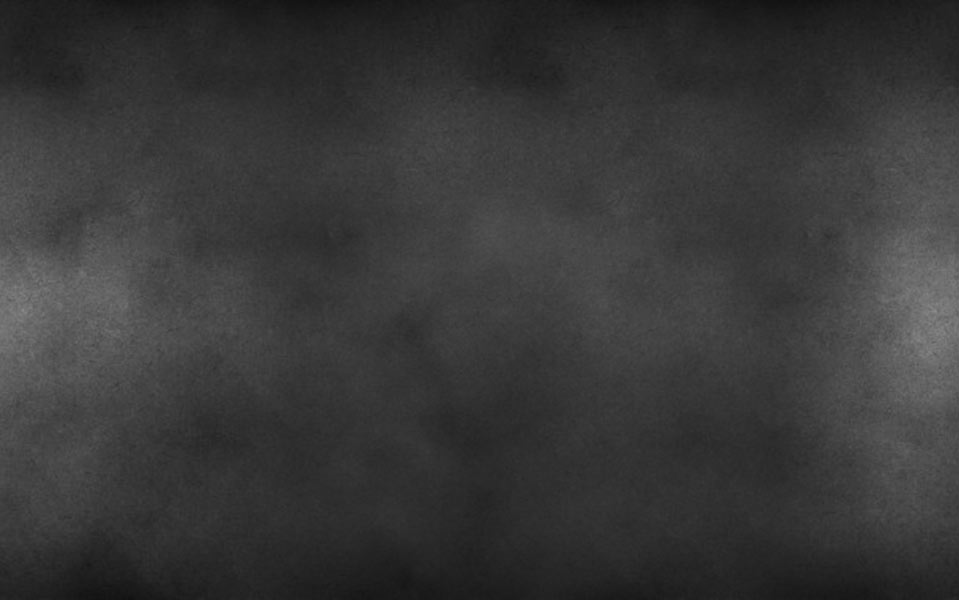
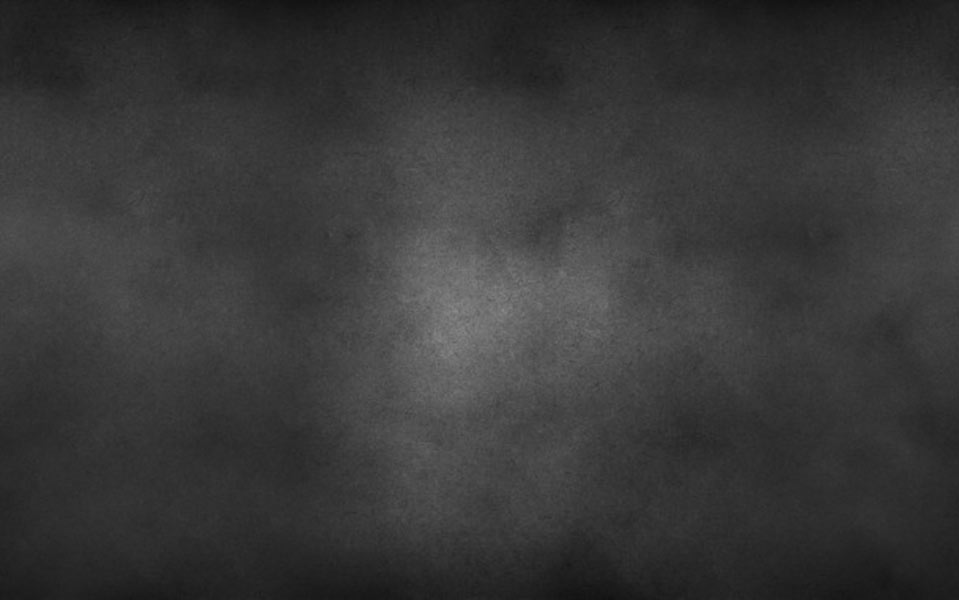
Fog & menu fix +

Changed region(s): [[0.3931, 0.36, 0.635, 0.9], [0.877, 0.36, 1.0, 0.9], [0.0, 0.42, 0.1512, 0.84]]

diff --git a/Client/css/Styles.css b/Client/css/Styles.css
@@ -197,21 +197,30 @@ div#ceiling {
 }
 
 #choose {
-	background: url(../img/menuback.png) center no-repeat, url(../img/fog.jpg) 0 0 repeat-x;
+	background-image: url(../img/menuback.png), url(../img/fog.jpg);
+	background-position: 150px 80px, 0 0;
+	background-repeat: no-repeat, repeat-x;
 	position: absolute;
+	overflow: hidden;
 	padding: 80px 150px 190px 150px;
 	color: #ffffff;
 	display: none;
 	width: 500px;
 	height: 330px;
 	text-align: center;
-	z-index: 100001;
-	animation: none, animatedfog 40s linear infinite;
+	z-index: 111111111;
+	-webkit-animation: animatedfog 15s linear infinite;
+	animation: animatedfog 15s linear infinite;
+}
+
+@-webkit-keyframes animatedfog {
+	from { background-position: 150px 80px, 0 0; }
+	to { background-position: 150px 80px, 100% 0; }
 }
 
 @keyframes animatedfog {
-	from { background-position:center, 0 0; }
-	to { background-position:center, 100% 0; }
+	from { background-position: 150px 80px, 0 0; }
+	to { background-position: 150px 80px, 100% 0; }
 }
 
 #choose .cyc {
